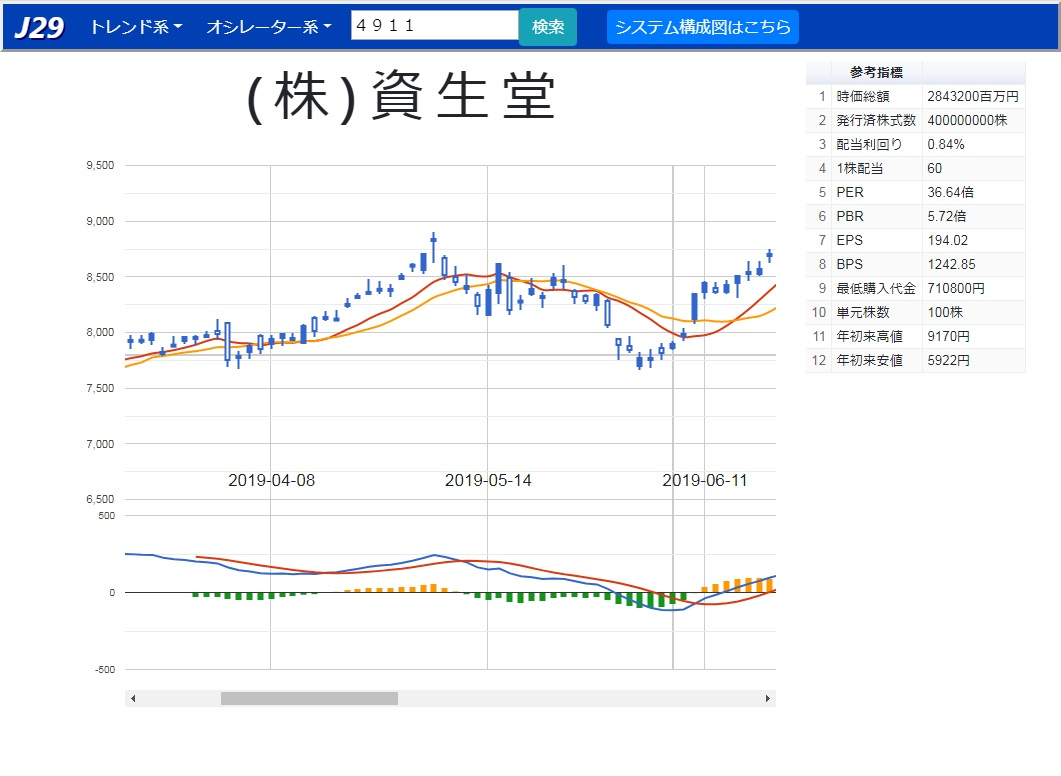
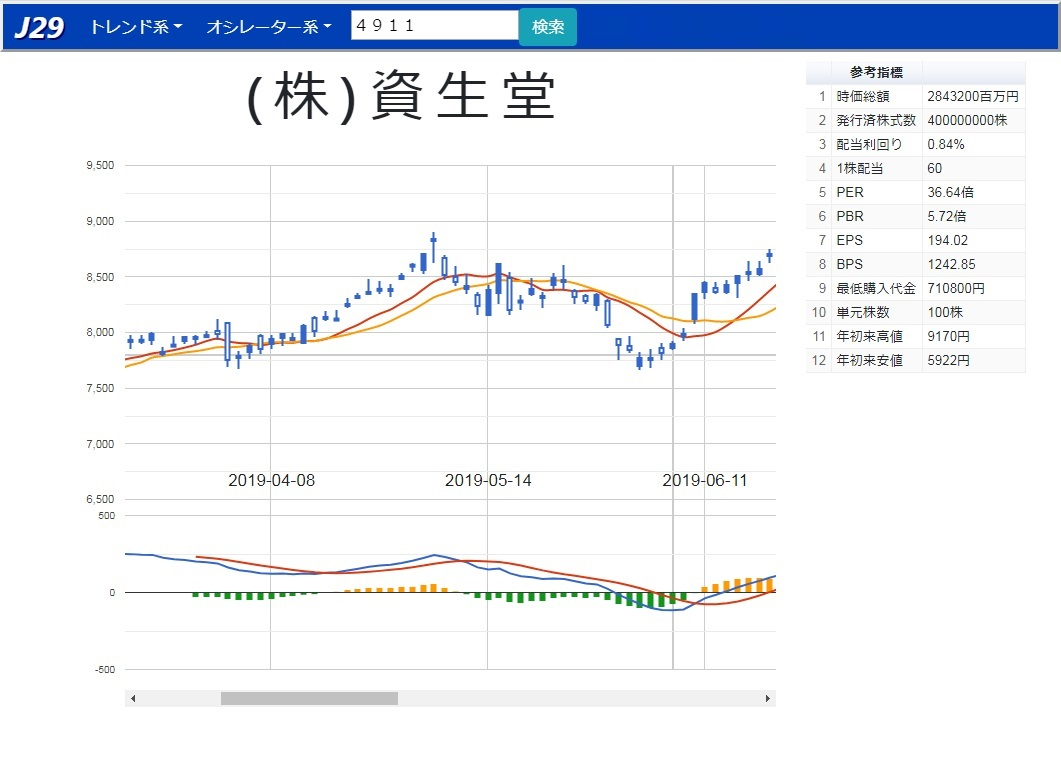
成果物の画像を差し替え、リンクを削除。

Changed region(s): [[0.5598, 0.0, 0.7776, 0.0619]]

diff --git a/index.html b/index.html
@@ -283,7 +283,7 @@
                 </h2>
                 <div class="col col-12 col-lg-4">
                     <figure>
-                        <a href="https://ree-kun.github.io/portfolio/" target="_blank"><div class="work-fig work-pic-1"></div></a>
+                        <div class="work-fig work-pic-1"></div>
                         <figcaption>
                             <p class="work-title"><a href="https://github.com/ree-kun/portfolio" target="_blank">ポートフォリオ (GitHub)</a></p>
                             <p>このサイトです。</p>
@@ -294,7 +294,6 @@
                 <div class="col col-12 col-lg-4">
                     <figure>
                         <div class="work-fig work-pic-2"></div>
-                        <!-- <a href="https://www.j29.shop/" target="_blank"><div class="work-fig work-pic-2"></div></a> -->
                         <figcaption>
                             <p class="work-title"><a href="https://github.com/ree-kun/J29" target="_blank">株価情報閲覧サイト (GitHub)</a></p>
                             <p>スクレイピングで取得した株価データを閲覧するサイトです。</p>
@@ -304,7 +303,7 @@
                 </div>
                 <div class="col col-12 col-lg-4">
                     <figure>
-                        <a href="https://github.com/ree-kun/numberplace/" target="_blank"><div class="work-fig work-pic-3"></div></a>
+                        <div class="work-fig work-pic-3"></div>
                         <figcaption>
                             <p class="work-title"><a href="https://github.com/ree-kun/numberplace" target="_blank">数独を自動で解くプログラム (GitHub)</a></p>
                             <p>数独にハマっていた頃に作成しました。</p>

diff --git a/style.css b/style.css
@@ -124,15 +124,17 @@ figure > a::after {
 
 .work-pic-1 {
     background-image: url('work1-pic.jpg');
+    cursor: default;
 }
 
 .work-pic-2 {
-    background-image: url('work2-pic_maintenance.jpg');
+    background-image: url('work2-pic.jpg');
     cursor: default;
 }
 
 .work-pic-3 {
     background-image: url('work3-pic.jpg');
+    cursor: default;
 }
 
 figure {
